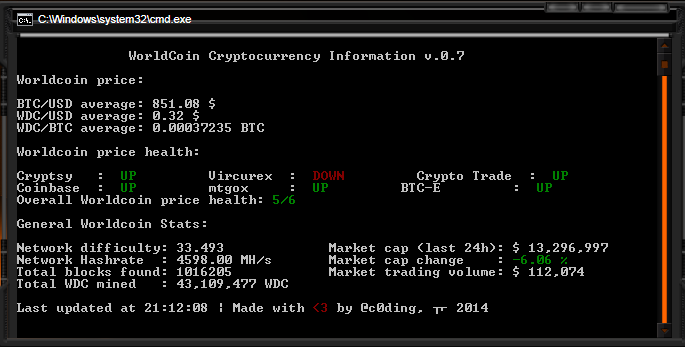
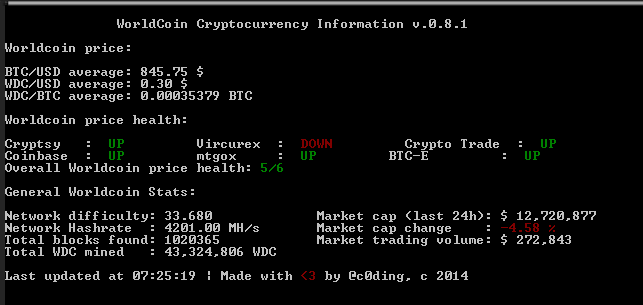
Update to 0.8.1

diff --git a/wdcinfo.py b/wdcinfo.py
@@ -1,6 +1,6 @@
 #!/usr/bin/env python
 # -*- coding: utf-8 -*-
-encoding='utf-8'
+
 import os
 import json
 import time
@@ -8,8 +8,9 @@ import requests
 import lxml.html
 from colorama import init
 init()
+
 __appname__ = "WorldCoin Cryptocurrency Information"
-__version__ = "v.0.7"
+__version__ = "v.0.8.1"
 
 def get_info():
 	""" Fetches price and network difficulty from wdcticker.com """
@@ -22,18 +23,18 @@ def get_info():
 			d[key] = "\033[32mUP\033[39m"
 		else:
 			d[key] = "\033[31mDOWN\033[39m"
-			
-	if 0 >= d[u'health_rating'] <= 2:
-		d[u'health_rating'] = "\033[31m" + str(d[u'health_rating']) + "/6" + "\033[39m"
 
-	if 3 >= d[u'health_rating'] <= 4:
-		d[u'health_rating'] = "\033[33m" + str(d[u'health_rating']) + "/6" + "\033[39m"
-
-	if 5 >= d[u'health_rating']:
+	if d[u'health_rating']>= 6:
+		d[u'health_rating'] = "\033[32m" + str(d[u'health_rating']) + str("/6") + "\033[39m"
+	
+	elif d[u'health_rating'] >= 5:
 		d[u'health_rating'] = "\033[32m" + str(d[u'health_rating']) + "/6" + "\033[39m"
 	
-	if d[u'health_rating'] <= 6:
-		d[u'health_rating'] = "\033[32m" + str(d[u'health_rating']) + str("/6") + "\033[39m"
+	elif 4 >= d[u'health_rating'] >= 3:
+		d[u'health_rating'] = "\033[33m" + str(d[u'health_rating']) + "/6" + "\033[39m"
+	
+	elif d[u'health_rating'] <= 2:
+		d[u'health_rating'] = "\033[31m" + str(d[u'health_rating']) + "/6" + "\033[39m"
 	
 	d[u'network_diff'] = '%.3f' % d[u'network_diff']
 	
@@ -56,14 +57,15 @@ def get_even_more_info():
 	""" Fetches market cap, trading volume, trading volume fluctuation and total WDC supply found from coinmarketcap.com """
 	data = lxml.html.parse("http://coinmarketcap.com/")
 	tree = data.xpath('//tr[@id="wdc"]/td//text()')
-	market_cap = tree[3]
-	total_wdc = tree[5]
-	market_volume = tree[6]
-	market_cap_change = tree[7]
-	if market_cap_change > 0:
-		market_cap_change = "\033[32m" + market_cap_change + "\033[39m"
+	tree = [x for x in tree if x != ' ']
+	market_cap = tree[2]
+	total_wdc = tree[4]
+	market_volume = tree[5]
+	market_cap_change = tree[6]
+	if float(market_cap_change.split(" ")[0]) > 0:
+		market_cap_change = "\033[32m" + market_cap_change.split(" ")[0] + " % " + "\033[39m"
 	else:
-		market_cap_change = "\033[31m" + market_cap_change + "\033[39m"
+		market_cap_change = "\033[31m" + market_cap_change.split(" ")[0] + " % " + "\033[39m"
 	return market_cap, total_wdc, market_volume, market_cap_change
 
 def output(d, hashrate, market_cap):
@@ -82,14 +84,14 @@ def output(d, hashrate, market_cap):
 	print hashrate[0] + "       Market cap change    : " + market_cap[3]
 	print "Total blocks found: " + hashrate[1] + "            Market trading volume: " + market_cap[2]
 	print "Total WDC mined   : " + market_cap[1] + "\n"
-	print "Last updated at " + time.strftime('%H:%M:%S',time.localtime()) + " | Made with \033[31m<3\033[39m by @c0ding, © 2014"
+	print "Last updated at " + time.strftime('%H:%M:%S',time.localtime()) + " | Made with \033[31m<3\033[39m by @c0ding, c 2014"
 
 def main():
 	try:
 		output(get_info(), get_more_info(), get_even_more_info())
 	except:
 		print "Something went awfully wrong, please try again later."
-		
+
 if __name__ == "__main__":
 	try:
 		main()
